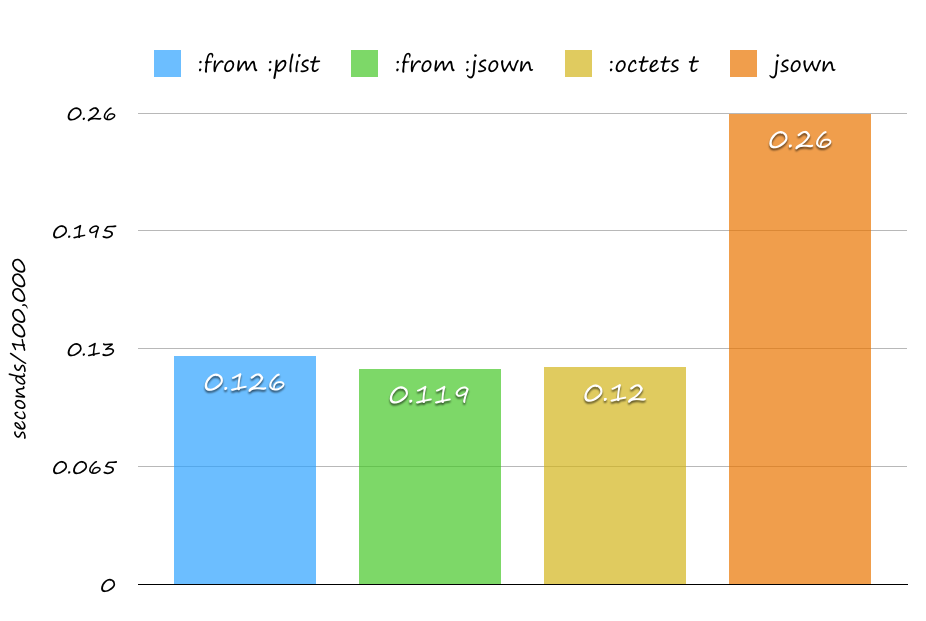
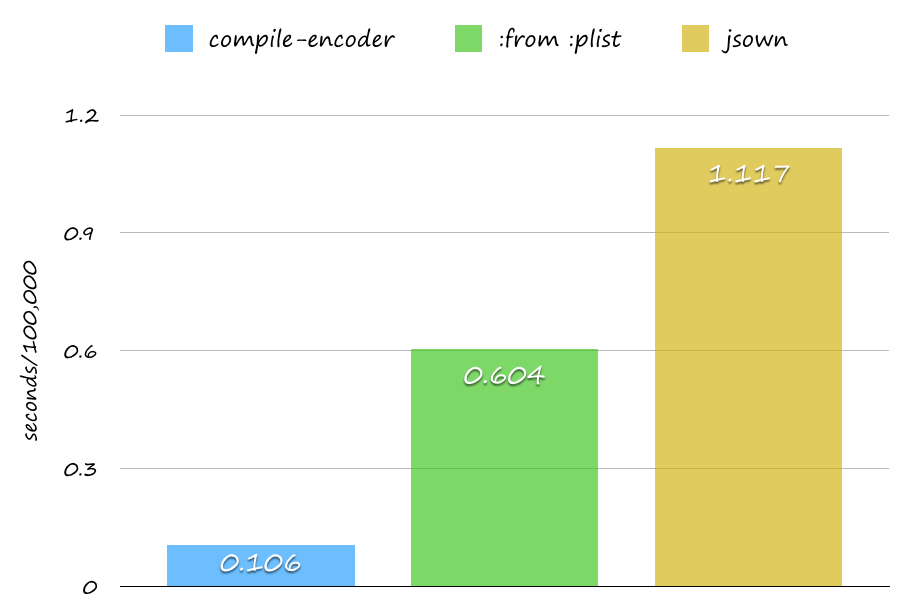
update readme

diff --git a/README.md b/README.md
@@ -76,36 +76,37 @@ It's faster than [jsown](https://github.com/madnificent/jsown) - high performanc
 ![Benchmark of to-json](./images/to-json.png)
 
 ```Lisp
-(let ((data '(:hello :world)))
+(let ((post (compile-encoder () (text)
+               (list :|channel| "lisp-alien"
+                     :|username| "alien-bot"
+                     :|text| text
+                     :|icon_url| "http://www.lisperati.com/lisplogo_warning2_256.png"))))
   (time
    (dotimes (_ 100000)
-     (jonathan:to-json data :from :plist))))
-;; => 0.126
+     (funcall post "Post from Alien!"))))
+;; => 0.106
 
-(let ((data '(:obj ("HELLO" . "WORLD"))))
+(flet ((post (text)
+         (jonathan:to-json
+               (list :|channel| "lisp-alien"
+                     :|username| "alien-bot"
+                     :|text| text
+                     :|icon_url| "http://www.lisperati.com/lisplogo_warning2_256.png"))))
   (time
    (dotimes (_ 100000)
-     (jonathan:to-json data :from :jsown))))
-;; => 0.119
+     (post "Post from Alien!"))))
+;; => 0.604
 
-(let ((data '(:obj ("HELLO" . "WORLD"))))
+(flet ((post (text)
+         (jsown:to-json
+          `(:obj (:|channel| . "lisp-alien")
+                 (:|username| . "alien-bot")
+                 (:|text| . ,text)
+                 (:|icon_url| . "http://www.lisperati.com/lisplogo_warning2_256.png")))))
   (time
    (dotimes (_ 100000)
-     (jonathan:to-json data :from :jsown :octets t))))
-;; => 0.120
-
-(let ((data '(:obj ("HELLO" . "WORLD"))))
-  (time
-   (dotimes (_ 100000)
-     (jsown:to-json data))))
-;; => 0.26
-
-(let* ((data '(:obj ("HELLO" . "WORLD")))
-       (encoder (jonathan:compile-encoder (:from :jsown) () data)))
-  (time
-   (dotimes (_ 100000)
-     (funcall encoder))))
-;; => 0.015 (encoder just writes strings.)
+     (post "Post from Alien!"))))
+;; => 1.117
 ```
 
 ## parse
@@ -136,12 +137,6 @@ It's faster than [jsown](https://github.com/madnificent/jsown) - high performanc
 ![Benchmark of parse](./images/parse.png)
 
 ```Lisp
-(let ((s "{\"key1\":\"value\",\"key2\":1.1,\"key3\":[\"Hello\",1.2]}"))
-  (time
-   (dotimes (_ 100000)
-     (jonathan:parse s :as :plist))))
-;; => 0.266
-
 (let ((s "{\"key1\":\"value\",\"key2\":1.1,\"key3\":[\"Hello\",1.2]}"))
   (time
    (dotimes (_ 100000)
